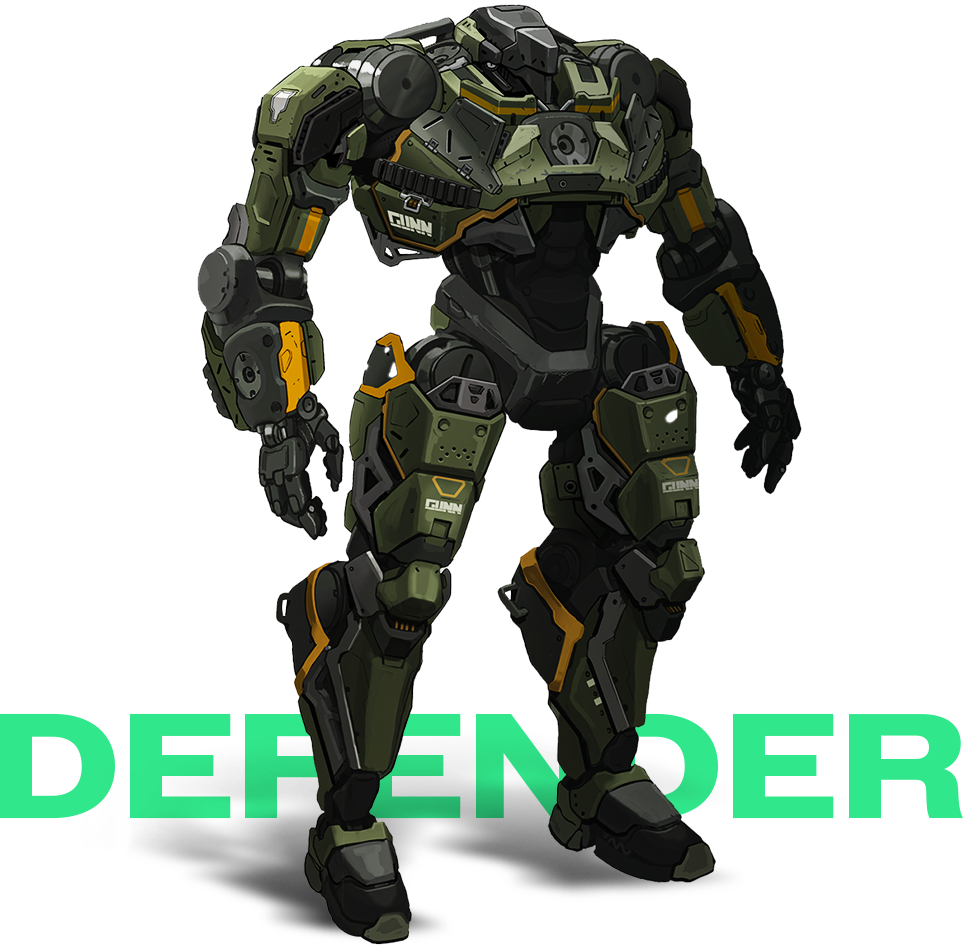
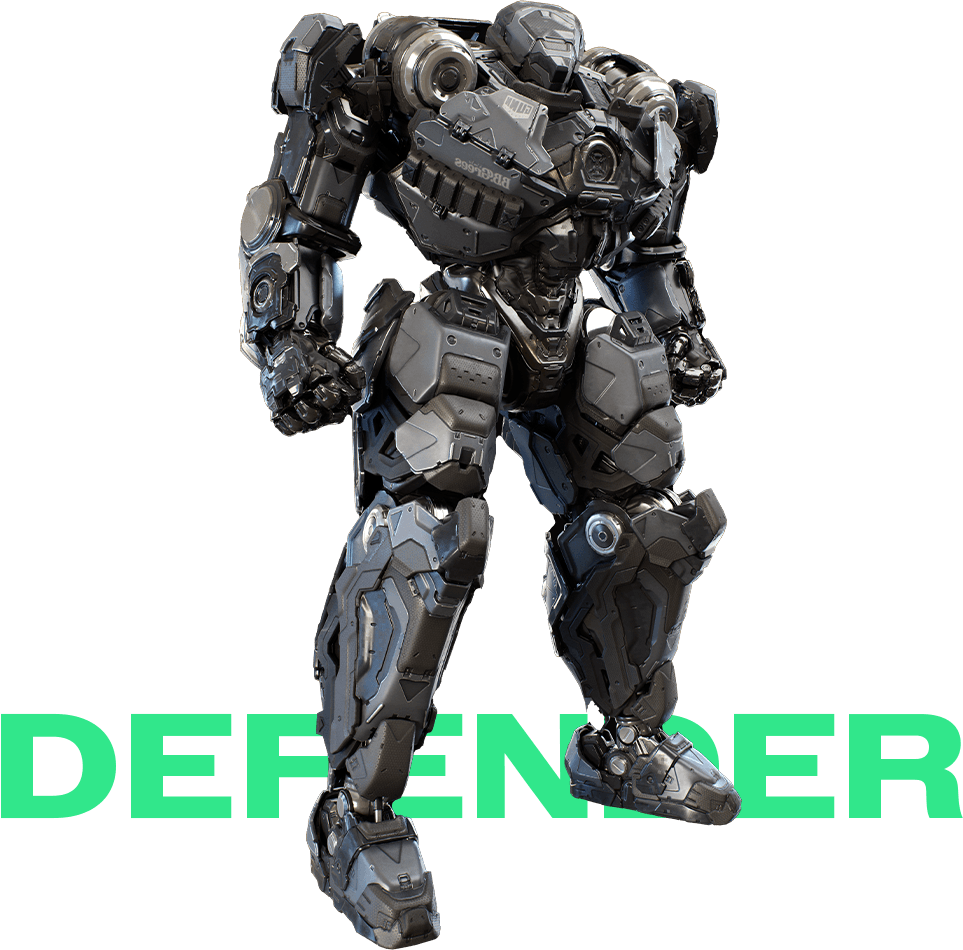
Discord section images updated.
Gladiators card images updated.

diff --git a/src/components/GladiatorGalleryMobile.tsx b/src/components/GladiatorGalleryMobile.tsx
@@ -77,8 +77,6 @@ const GladiatorGalleryMobile = ({
             setActiveIndex(mapSwiperIndexToActiveIndex(swiper.realIndex));
           }}
           onUpdate={(swiper) => {
-            console.log("UPDATED");
-            console.log(mapActiveIndexToSwiperIndex(activeIndex));
             swiper.slideToLoop(mapActiveIndexToSwiperIndex(activeIndex));
           }}
           className="h-full"
@@ -91,7 +89,11 @@ const GladiatorGalleryMobile = ({
           <SwiperSlide>
             <Image
               className={`w-full ${activeIndex === 0 ? "" : "grayscale"}`}
-              src={"/assets/png/robot-STRIKER.png"}
+              src={
+                activeIndex === 0
+                  ? "/assets/png/robot-STRIKER-front.png"
+                  : "/assets/png/robot-STRIKER.png"
+              }
               alt="STRIKER.png"
               width={1907}
               height={1003}
@@ -102,7 +104,11 @@ const GladiatorGalleryMobile = ({
           <SwiperSlide>
             <Image
               className={`w-full ${activeIndex === 1 ? "" : "grayscale"}`}
-              src={"/assets/png/robot-DEFENDER.png"}
+              src={
+                activeIndex === 1
+                  ? "/assets/png/robot-DEFENDER-front.png"
+                  : "/assets/png/robot-DEFENDER.png"
+              }
               alt="DEFENDER.png"
               width={1907}
               height={1003}
@@ -113,7 +119,11 @@ const GladiatorGalleryMobile = ({
           <SwiperSlide>
             <Image
               className={`w-full ${activeIndex === -1 ? "" : "grayscale"}`}
-              src={"/assets/png/robot-RUNNER.png"}
+              src={
+                activeIndex === -1
+                  ? "/assets/png/robot-RUNNER-front.png"
+                  : "/assets/png/robot-RUNNER.png"
+              }
               alt="RUNNER.png"
               width={1907}
               height={1003}

diff --git a/src/components/GladiatorGalleryDesktop.tsx b/src/components/GladiatorGalleryDesktop.tsx
@@ -136,7 +136,11 @@ const GladiatorGalleryDesktop = ({
             className={`w-full transition-all ${
               getDefenderStyles().imageStyles
             }`}
-            src={"/assets/png/robot-DEFENDER.png"}
+            src={
+              activeIndex === 1
+                ? "/assets/png/robot-DEFENDER-front.png"
+                : "/assets/png/robot-DEFENDER.png"
+            }
             alt="DEFENDER.png"
             width={1907}
             height={1003}
@@ -154,7 +158,11 @@ const GladiatorGalleryDesktop = ({
             className={`w-full transition-all ${
               getStrikerStyles().imageStyles
             }`}
-            src={"/assets/png/robot-STRIKER.png"}
+            src={
+              activeIndex === 0
+                ? "/assets/png/robot-STRIKER-front.png"
+                : "/assets/png/robot-STRIKER.png"
+            }
             alt="STRIKER.png"
             width={1907}
             height={1003}
@@ -170,7 +178,11 @@ const GladiatorGalleryDesktop = ({
         >
           <Image
             className={`w-full transition-all ${getRunnerStyles().imageStyles}`}
-            src={"/assets/png/robot-RUNNER.png"}
+            src={
+              activeIndex === -1
+                ? "/assets/png/robot-RUNNER-front.png"
+                : "/assets/png/robot-RUNNER.png"
+            }
             alt="RUNNER.png"
             width={1907}
             height={1003}

diff --git a/src/pages/index.tsx b/src/pages/index.tsx
@@ -353,7 +353,7 @@ export default function Home() {
             <div>
               <Image
                 className="w-full"
-                src={"/assets/png/mobile-discord-robots.png"}
+                src={"/assets/png/mobile-discord-section.png"}
                 alt="mobile-discord-robots.png"
                 width={393}
                 height={296}
